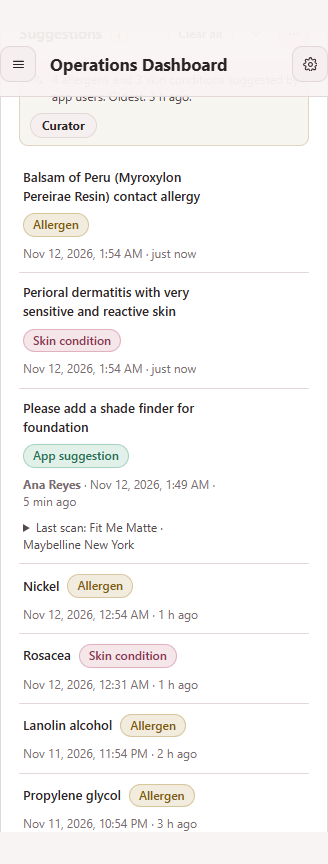
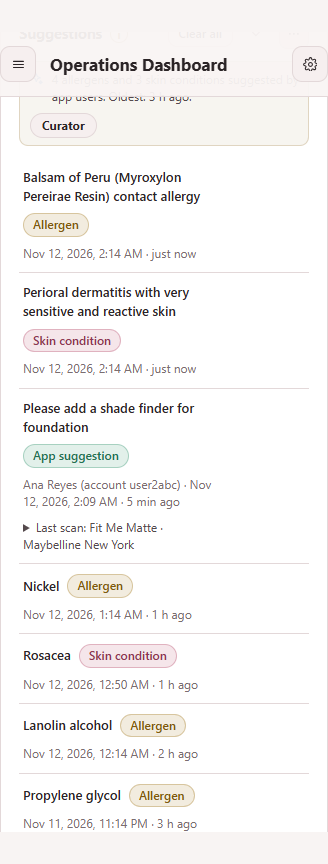
admin: the sender's self-given name is always shown with the account id; senders grouped by account

diff --git a/GlowUp-Admin_AI_Testing/_Admin_Dashboard/adminDashboard.js b/GlowUp-Admin_AI_Testing/_Admin_Dashboard/adminDashboard.js
@@ -416,7 +416,7 @@ function renderSuggestions() {
             <div class="suggestion-main">
                 <span class="suggestion-text">${escapeHtml(s.text || "(empty)")}</span>
                 <span class="chip ${s.kind === "Allergen" ? "warn" : s.kind === "App suggestion" ? "good" : "pink"}">${escapeHtml(s.kind)}</span>
-                <span class="small muted">${s.from ? "<b>" + escapeHtml(s.from) + "</b> · " : ""}${escapeHtml(formatWhen(s.createdAtUnix))} · ${escapeHtml(timeAgo(s.createdAtUnix))}</span>
+                <span class="small muted">${s.from ? escapeHtml(s.from) + " · " : ""}${escapeHtml(formatWhen(s.createdAtUnix))} · ${escapeHtml(timeAgo(s.createdAtUnix))}</span>
                 ${lastScanDetails(s.lastScan)}
             </div>
             <div class="suggestion-actions btn-group">
@@ -462,7 +462,7 @@ async function loadSupportReports() {
             const lastScan = data.lastScan && typeof data.lastScan === "object" ? data.lastScan : null;
             if (String(data.category || "") === "Suggestion") {
                 // the app's Suggestion kind belongs in the Suggestions panel (for review), not among the support reports
-                appSuggestions.push({ id: d.id, collection: "supportReports", kind: "App suggestion", text: String(data.message || ""), createdAtUnix: toWholeNumber(data.createdAtUnix), lastScan, from: String(data.userName || "").trim() || "account " + String(data.uid || "").slice(0, 8) });
+                appSuggestions.push({ id: d.id, collection: "supportReports", kind: "App suggestion", text: String(data.message || ""), createdAtUnix: toWholeNumber(data.createdAtUnix), lastScan, from: senderText({ userName: String(data.userName || "").trim(), uid: String(data.uid || "") }) });
                 return;
             }
             supportReports.push({
@@ -504,7 +504,7 @@ function renderSupportKind(kind) {
         return `<li class="suggestion-item support-item">
             <div class="suggestion-main">
                 <span class="chip ${tone(r.category)}">${escapeHtml(r.category)}</span>
-                <span class="small muted">${escapeHtml(formatWhen(r.createdAtUnix))} · ${escapeHtml(timeAgo(r.createdAtUnix))} · ${r.userName ? "<b>" + escapeHtml(r.userName) + "</b>" : "account " + escapeHtml(r.uid.slice(0, 8))}${r.appVersion ? " · app " + escapeHtml(r.appVersion) : ""}</span>
+                <span class="small muted">${escapeHtml(formatWhen(r.createdAtUnix))} · ${escapeHtml(timeAgo(r.createdAtUnix))} · ${senderHtml(r)}${r.appVersion ? " · app " + escapeHtml(r.appVersion) : ""}</span>
                 <p class="support-message">${escapeHtml(r.message)}</p>
                 ${scan}
             </div>
@@ -514,6 +514,19 @@ function renderSupportKind(kind) {
             </div>
         </li>`;
     }).join("");
+}
+
+/**
+ * WHO SENT IT. The name is written by the sender's own app, so it is shown only as "name given by the sender" NEXT TO the account id, which
+ * the database checks (the rules make the id the sender's own). Never the name alone, and groups are made by account, not by name.
+ */
+function senderText(r) {
+    const account = "account " + String(r.uid || "").slice(0, 8);
+    return r.userName ? `${r.userName} (${account})` : account;
+}
+function senderHtml(r) {
+    const account = "account " + escapeHtml(String(r.uid || "").slice(0, 8));
+    return r.userName ? `<b title="Name given by the sender">${escapeHtml(r.userName)}</b> <span class="muted">(${account})</span>` : account;
 }
 
 /** The optional last scan a report or app suggestion carries, folded (empty when there is none). */
@@ -726,9 +739,9 @@ function registerData() {
     SUPPORT_KINDS.forEach((kind) => registerDataset(kind.dataset, {
         label: kind.label, noun: kind.title, nounOne: kind.title.replace(/s$/, ""),
         items: () => supportReports.filter((r) => kindOf(r.category) === kind),
-        map: (r) => ({ id: r.id, title: r.message || "(empty)", subtitle: r.userName || "account " + r.uid.slice(0, 8), meta: timeAgo(r.createdAtUnix), tone: r.category === "Bug" ? "bad" : r.category === "Wrong scan result" ? "warn" : "pink" }),
+        map: (r) => ({ id: r.id, title: r.message || "(empty)", subtitle: senderText(r), meta: timeAgo(r.createdAtUnix), tone: r.category === "Bug" ? "bad" : r.category === "Wrong scan result" ? "warn" : "pink" }),
         dimensions: [
-            { id: "who", label: "Sender", of: (r) => r.userName || "account " + r.uid.slice(0, 8) },
+            { id: "who", label: "Sender (by account)", of: (r) => r.uid ? "account " + r.uid.slice(0, 8) : "unknown" },
             { id: "version", label: "App version", of: (r) => r.appVersion || null, none: "Unknown" }
         ],
         removedWord: "dismissed", foreverLabel: "Dismiss for good", removeNote: "They leave this list for everyone who uses the admin site.",
